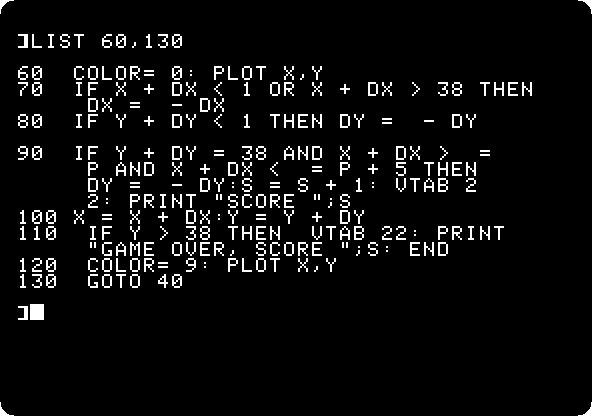
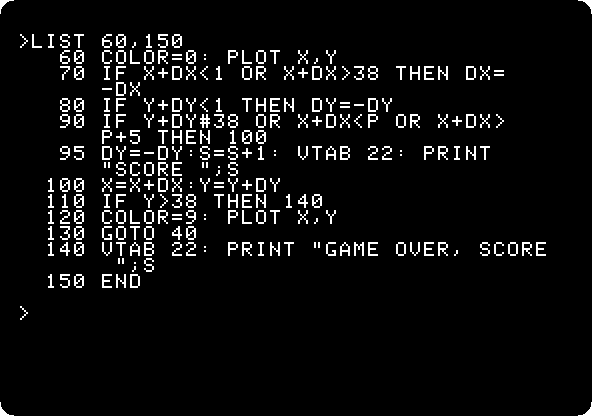
Write the paddle game in Integer BASIC, on the first Apple ][
The game of bat and ball in low resolution was in Applesoft on a ][+. In
the Integer BASIC of the first Apple ][, the BASIC Wozniak wrote for games,
it fits the machine it is about better, opens Languages and programming
before the two games in Applesoft, and plays faster. The page now explains
what is different there: CALL -936 for HOME, whole numbers, # for not
equal, and an IF that does only the command after THEN.

diff --git a/activities/paddle_test.go b/activities/paddle_test.go
@@ -9,19 +9,23 @@ import (
 
 // paddleGame is the program of the paddle game, as typed
 var paddleGame = []string{
-	"10 GR : HOME",
-	"20 X = 20:Y = 5:DX = 1:DY = 1:S = 0:Q = -1",
-	"30 COLOR= 15: HLIN 0,39 AT 0: VLIN 0,39 AT 0: VLIN 0,39 AT 39",
-	"40 P = INT ( PDL (0) * 32 / 255) + 1",
-	"50 IF P <> Q THEN COLOR= 0: HLIN 1,38 AT 38: COLOR= 13: HLIN P,P + 5 AT 38:Q = P",
-	"60 COLOR= 0: PLOT X,Y",
-	"70 IF X + DX < 1 OR X + DX > 38 THEN DX = - DX",
-	"80 IF Y + DY < 1 THEN DY = - DY",
-	`90 IF Y + DY = 38 AND X + DX >= P AND X + DX <= P + 5 THEN DY = - DY:S = S + 1: VTAB 22: PRINT "SCORE ";S`,
-	"100 X = X + DX:Y = Y + DY",
-	`110 IF Y > 38 THEN VTAB 22: PRINT "GAME OVER, SCORE ";S: END`,
-	"120 COLOR= 9: PLOT X,Y",
+	"10 GR:CALL -936",
+	"20 X=20:Y=5:DX=1:DY=1:S=0:Q=-1",
+	"30 COLOR=15:HLIN 0,39 AT 0:VLIN 0,39 AT 0:VLIN 0,39 AT 39",
+	"40 P=PDL(0)*32/255+1",
+	"50 IF P=Q THEN 60",
+	"55 COLOR=0:HLIN 1,38 AT 38:COLOR=13:HLIN P,P+5 AT 38:Q=P",
+	"60 COLOR=0:PLOT X,Y",
+	"70 IF X+DX<1 OR X+DX>38 THEN DX=-DX",
+	"80 IF Y+DY<1 THEN DY=-DY",
+	"90 IF Y+DY#38 OR X+DX<P OR X+DX>P+5 THEN 100",
+	`95 DY=-DY:S=S+1:VTAB 22:PRINT "SCORE ";S`,
+	"100 X=X+DX:Y=Y+DY",
+	"110 IF Y>38 THEN 140",
+	"120 COLOR=9:PLOT X,Y",
 	"130 GOTO 40",
+	`140 VTAB 22:PRINT "GAME OVER, SCORE ";S`,
+	"150 END",
 }
 
 /*
@@ -50,29 +54,36 @@ func loResFind(o *operator.Operator, color uint8) (x int, y int, found bool) {
 // batPaddle is where to turn the paddle for the bat of the game to be under
 // a place across the screen, from 1 to 38
 func batPaddle(x int) uint8 {
-	// The bat starts at INT(PDL(0) * 32 / 255) + 1 and is six blocks wide
+	// The bat starts at PDL(0)*32/255+1, in whole numbers, and is six
+	// blocks wide
 	p := min(max(x-2, 1), 33)
 	return uint8(min((p-1)*255/32+4, 255))
 }
 
 // paddleMachine is the machine of the guide, as its command line of izapple2
 const paddleMachine = `izapple2 -model none -board 2plus -cpu 6502 -screen color \
-    -rom "<internal>/Apple2_Plus.rom" \
-    -charrom "<internal>/Apple2rev7CharGen.rom" -forceCaps`
+    -rom "<internal>/341-000x_integer.rom" \
+    -charrom "<internal>/Apple2rev7CharGen.rom" -forceCaps \
+    -mods four-colors`
 
 /*
-paddleScreenshots is a game written in Applesoft on an Apple ][+ with no disk:
-low resolution graphics, a bat on a paddle and a ball, typed, run and played,
-on a colour television.
+paddleScreenshots is a game written in Integer BASIC on the first Apple ][,
+with no disk: low resolution graphics, a bat on a paddle and a ball, typed,
+run and played, on a colour television.
 */
 func paddleScreenshots(t *testing.T) {
 	pictures := newAlbum("paddle-game", album.Color)
 	o := start(t, paddleMachine, nil)
 	must(t, o.WaitForKeyboard(5))
 
+	// From the Monitor to Integer BASIC
+	must(t, o.Key("Ctrl+B"))
+	must(t, o.TypeLines(""))
+	must(t, o.WaitForKeyboard(5))
+
 	// The program, typed, and its end listed
 	must(t, o.TypeLines(paddleGame...))
-	must(t, o.TypeLines("HOME", "LIST 60,130"))
+	must(t, o.TypeLines("CALL -936", "LIST 60,150"))
 	o.Run(30)
 	must(t, pictures.Screenshot(o, "listing"))
 

diff --git a/guides/paddle-game.md b/guides/paddle-game.md
@@ -1,4 +1,4 @@
-# A game in Applesoft
+# A game in Integer BASIC
 
 [Back to the activities](../README.md)
 
@@ -6,64 +6,72 @@ The Apple II was made to play games, and to write them. It had colour graphics
 and a speaker, and a game port on the main board for paddles, a knob and a
 button each, all within reach of a line of BASIC: `GR` switches to
 graphics, `COLOR=` and `PLOT` draw, `PDL` reads where a paddle is turned to.
-Magazines and books printed the listings of games, and their readers typed
-them in.
+The first Apple \]\[ came with Integer BASIC in its ROM, which Wozniak wrote
+himself and gave these words to write games with: Breakout, the game he had
+designed in hardware for Atari, he wrote again in it. Magazines and books printed the
+listings of games, and their readers typed them in.
 
 This page writes one of those, a bat and a ball in the low resolution
-graphics of the Apple \]\[+, types it in, and plays it.
+graphics of the first Apple \]\[, types it in, and plays it.
 
 ## What you need
 
-Only izapple2, as in [Switch on an Apple \]\[+](switch-on.md): nothing to
+Only izapple2, as in [The Apple \]\[ of 1977](apple-ii.md): nothing to
 download.
 
-[The Applesoft Tutorial](https://archive.org/details/The_Applesoft_Tutorial),
-Apple's manual to learn Applesoft, is on the Internet Archive.
+The [Apple II BASIC Programming Manual](https://archive.org/details/Apple_II_Basic_Programming_Manual_1978_Apple),
+Apple's manual of Integer BASIC, of 1978, is on the Internet Archive.
 
 ## The machine
 
-An Apple \]\[+ with no disk drive:
+The first Apple \]\[, with no disk drive:
 
-- the 6502 processor at 1 MHz, 48 KB of memory, and Applesoft BASIC in its ROM;
-- the keyboard of the \]\[+, which types only capitals;
+- the 6502 processor at 1 MHz and 48 KB of memory;
+- the ROM with Integer BASIC, the Monitor and the Mini-Assembler;
+- the board of the first Apple \]\[s, and a keyboard of capitals only;
 - a pair of paddles in its game port;
 - no cards in its slots.
 
 ```bash
 izapple2 -model none -board 2plus -cpu 6502 -screen color \
-    -rom "<internal>/Apple2_Plus.rom" \
-    -charrom "<internal>/Apple2rev7CharGen.rom" -forceCaps
+    -rom "<internal>/341-000x_integer.rom" \
+    -charrom "<internal>/Apple2rev7CharGen.rom" -forceCaps \
+    -mods four-colors
 ```
 
-The model `2plus` of izapple2 has this machine, with a Language Card and a
-Videx Videoterm 80 column card more:
+The model `2` of izapple2 is this same machine:
 
 ```bash
-izapple2 -model 2plus -screen color -s6 empty
+izapple2 -model 2 -screen color
 ```
 
 ## Type the game
 
-1. **Start izapple2** with the command above. The screen is in colour, as on
-   the colour television many Apple IIs were plugged into: the game is in
-   colour.
+1. **Start izapple2** with the command above. The machine starts in the
+   Monitor, with its prompt, `*`. **Press Control-B and Return**: Integer
+   BASIC, with its prompt, `>`. The screen is in colour, as on the colour
+   television many Apple IIs were plugged into: the game is in colour.
 
 2. **Type the program**, each line ended with Return:
 
    ```basic
-   10 GR : HOME
-   20 X = 20:Y = 5:DX = 1:DY = 1:S = 0:Q = -1
-   30 COLOR= 15: HLIN 0,39 AT 0: VLIN 0,39 AT 0: VLIN 0,39 AT 39
-   40 P = INT ( PDL (0) * 32 / 255) + 1
-   50 IF P <> Q THEN COLOR= 0: HLIN 1,38 AT 38: COLOR= 13: HLIN P,P + 5 AT 38:Q = P
-   60 COLOR= 0: PLOT X,Y
-   70 IF X + DX < 1 OR X + DX > 38 THEN DX = - DX
-   80 IF Y + DY < 1 THEN DY = - DY
-   90 IF Y + DY = 38 AND X + DX >= P AND X + DX <= P + 5 THEN DY = - DY:S = S + 1: VTAB 22: PRINT "SCORE ";S
-   100 X = X + DX:Y = Y + DY
-   110 IF Y > 38 THEN VTAB 22: PRINT "GAME OVER, SCORE ";S: END
-   120 COLOR= 9: PLOT X,Y
+   10 GR:CALL -936
+   20 X=20:Y=5:DX=1:DY=1:S=0:Q=-1
+   30 COLOR=15:HLIN 0,39 AT 0:VLIN 0,39 AT 0:VLIN 0,39 AT 39
+   40 P=PDL(0)*32/255+1
+   50 IF P=Q THEN 60
+   55 COLOR=0:HLIN 1,38 AT 38:COLOR=13:HLIN P,P+5 AT 38:Q=P
+   60 COLOR=0:PLOT X,Y
+   70 IF X+DX<1 OR X+DX>38 THEN DX=-DX
+   80 IF Y+DY<1 THEN DY=-DY
+   90 IF Y+DY#38 OR X+DX<P OR X+DX>P+5 THEN 100
+   95 DY=-DY:S=S+1:VTAB 22:PRINT "SCORE ";S
+   100 X=X+DX:Y=Y+DY
+   110 IF Y>38 THEN 140
+   120 COLOR=9:PLOT X,Y
    130 GOTO 40
+   140 VTAB 22:PRINT "GAME OVER, SCORE ";S
+   150 END
    ```
 
    In izapple2 you can paste it instead, with Command-V on a Mac or
@@ -72,17 +80,26 @@ izapple2 -model 2plus -screen color -s6 empty
    one as you type it; it is still one line until Return.
 
    - `GR` switches to the low resolution graphics: 40 by 40 blocks in 16
-     colours, with four lines of text under them.
+     colours, with four lines of text under them. `CALL -936` clears those
+     lines: Integer BASIC has no `HOME`, and calls the routine of the
+     Monitor that does it, at the address -936.
    - Line 30 draws the walls in white, colour 15, with horizontal and vertical
      lines, `HLIN` and `VLIN`.
    - Line 40 reads the paddle, from 0 to 255, and turns it into where the bat
-     starts, from 1 to 33. Line 50 draws the bat, six blocks of yellow,
-     colour 13, when it has moved, after clearing its row with black, colour 0.
-   - Lines 60 to 120 are the ball: rubbed out, bounced off the walls and the
-     bat, moved, and drawn again in orange, colour 9.
+     starts, from 1 to 33: Integer BASIC has only whole numbers, from -32767
+     to 32767, and drops what is left of a division. Lines 50 and 55 draw
+     the bat, six blocks of yellow, colour 13, when it has moved, after
+     clearing its row with black, colour 0.
+   - Lines 60 to 150 are the ball: rubbed out, bounced off the walls and the
+     bat, moved, and drawn again in orange, colour 9. `#` is "not equal",
+     as `<>` is.
+   - An `IF` of Integer BASIC does only the one command after its `THEN`:
+     what follows a `:` on the same line is done anyway. So where more than
+     one thing depends on it, as the bounce off the bat in line 95, the `IF`
+     jumps over them with the number of a line, `THEN 100`.
 
-3. **Type `HOME` and `LIST 60,130`** to see the end of it the way Applesoft
-   keeps it.
+3. **Type `CALL -936` and `LIST 60,150`** to see the end of it the way
+   Integer BASIC keeps it, with its own spaces.
 
    ![The end of the program](images/paddle-game/listing.png)
 
@@ -96,11 +113,12 @@ izapple2 -model 2plus -screen color -s6 empty
 
    ![The game being played](images/paddle-game/playing.gif)
 
-   This is the speed of the machine: Applesoft works out every line of the
-   program again each time round the loop, and a ball that moves a block at a
-   time is as fast as it goes. The ball blinks because it is rubbed out
-   before it is drawn again. Control-C stops the game, as it stops any
-   Applesoft program.
+   This is the speed of the machine. Integer BASIC counts in whole numbers,
+   which the 6502 adds in a few instructions, and the ball goes from its
+   start to the bottom of the screen in 1.3 seconds; the same game in
+   Applesoft, which counts in floating point, takes 2.2. The ball blinks
+   because it is rubbed out before it is drawn again. Control-C stops the
+   game, as it stops any program of Integer BASIC.
 
    The walls are white with a fringe of colour at their edges: on a
    television, the Apple II makes its colours out of the timing of its
@@ -116,5 +134,6 @@ izapple2 -model 2plus -screen color -s6 empty
 
 **Next:** [A game in Applesoft: the snake](applesoft-snake.md).
 
-[Life with DOS 3.3](dos33.md) shows how to keep the game on a diskette: with
-DOS started, `SAVE GAME` saves it and `RUN GAME` runs it again.
+[The Apple \]\[ and its cassettes](apple-ii-cassettes.md) loads programs
+from tape into this same machine, Breakout among them; `SAVE` keeps a program
+of Integer BASIC on a cassette the same way, and `LOAD` brings it back.

diff --git a/sections/languages-and-programming.md b/sections/languages-and-programming.md
@@ -2,13 +2,13 @@
 
 [Back to the activities](../README.md)
 
-### [A game in Applesoft](../guides/paddle-game.md)
+### [A game in Integer BASIC](../guides/paddle-game.md)
 
 [<img src="../guides/images/paddle-game/game-over.png" width="320" alt="A bat and a ball in low resolution graphics">](../guides/paddle-game.md)
 
 A bat on a paddle and a ball, in the low resolution colour graphics of the
-Apple \]\[+: typed in as the listings of the magazines were, and played with the
-mouse as the paddle.
+first Apple \]\[, in its Integer BASIC: typed in as the listings of the
+magazines were, and played with the mouse as the paddle.
 
 ### [A game in Applesoft: the snake](../guides/applesoft-snake.md)
 

diff --git a/README.md b/README.md
@@ -33,7 +33,7 @@ and a few lines on it.
 
 ## [Languages and programming](sections/languages-and-programming.md)
 
-- [A game in Applesoft](guides/paddle-game.md): a bat and a ball in low resolution, typed in and played with a paddle
+- [A game in Integer BASIC](guides/paddle-game.md): a bat and a ball in low resolution, typed into the first Apple \]\[ and played with a paddle
 - [A game in Applesoft: the snake](guides/applesoft-snake.md): 35 lines of Applesoft, typed in, explained and played
 - [Logo and its turtle](guides/logo.md): the turtle, procedures, a flower of squares and a spiral
 - [Apple Pascal](guides/pascal.md): the UCSD p-System, its Filer, editor and compiler, and the turtle

diff --git a/guides/apple-ii-cassettes.md b/guides/apple-ii-cassettes.md
@@ -156,4 +156,5 @@ resolution graphics on the first board and on the later ones.
 
 [The Apple \]\[ of 1977](apple-ii.md) goes through the Monitor, the
 Mini-Assembler and Integer BASIC of the same machine, and
-[A game in Applesoft](paddle-game.md) is a game of bat and ball typed in.
+[A game in Integer BASIC](paddle-game.md) is a game of bat and ball typed
+into the same Apple \]\[.

diff --git a/guides/printing.md b/guides/printing.md
@@ -210,5 +210,5 @@ izapple2 -model 2plus -screen green -s1 parallel
 
 **Next:** [The Print Shop: cards, signs and banners](print-shop.md).
 
-[A game in Applesoft](paddle-game.md) is another program typed into the
-same machine, for the screen this time.
+[A game in Integer BASIC](paddle-game.md) is another program typed in,
+on the first Apple \]\[, for the screen this time.

diff --git a/guides/mockingboard.md b/guides/mockingboard.md
@@ -83,5 +83,5 @@ izapple2 -model 2plus -screen color -s4 mockingboard disks/Mockingboard_Sound_an
 
 **Next:** [160 columns: the Videx Ultraterm](ultraterm.md).
 
-[A game in Applesoft](paddle-game.md) has a game with no sound at all: the
+[A game in Integer BASIC](paddle-game.md) has a game with no sound at all: the
 speaker is all an Apple II without a card has.

diff --git a/guides/applesoft-snake.md b/guides/applesoft-snake.md
@@ -153,5 +153,5 @@ izapple2 -model 2plus -screen color -s6 empty
 
 **Next:** [Logo and its turtle](logo.md).
 
-[A game in Applesoft](paddle-game.md) is the other game typed in on these
-pages, played with the paddle.
+[A game in Integer BASIC](paddle-game.md) is another game typed in, in the
+Integer BASIC of the first Apple \]\[, played with the paddle.

diff --git a/guides/desktop.md b/guides/desktop.md
@@ -152,7 +152,7 @@ izapple2 -model desktop -screen color
 
 ## What next
 
-**Next:** [A game in Applesoft](paddle-game.md).
+**Next:** [A game in Integer BASIC](paddle-game.md).
 
 The other desk accessories of the Apple menu, the other screen savers, and
 the *Toys* folder, are worth a look. [Switch on an Apple \]\[+](switch-on.md)

diff --git a/guides/lode-runner.md b/guides/lode-runner.md
@@ -217,5 +217,5 @@ change it.
 
 **Next:** [Mission: Asteroid, from the start to the end](missionasteroid.md).
 
-[A game in Applesoft](paddle-game.md) is a game you write yourself, in
-BASIC, for the same machine.
+[A game in Integer BASIC](paddle-game.md) is a game you write yourself,
+in the BASIC of the first Apple \]\[.
